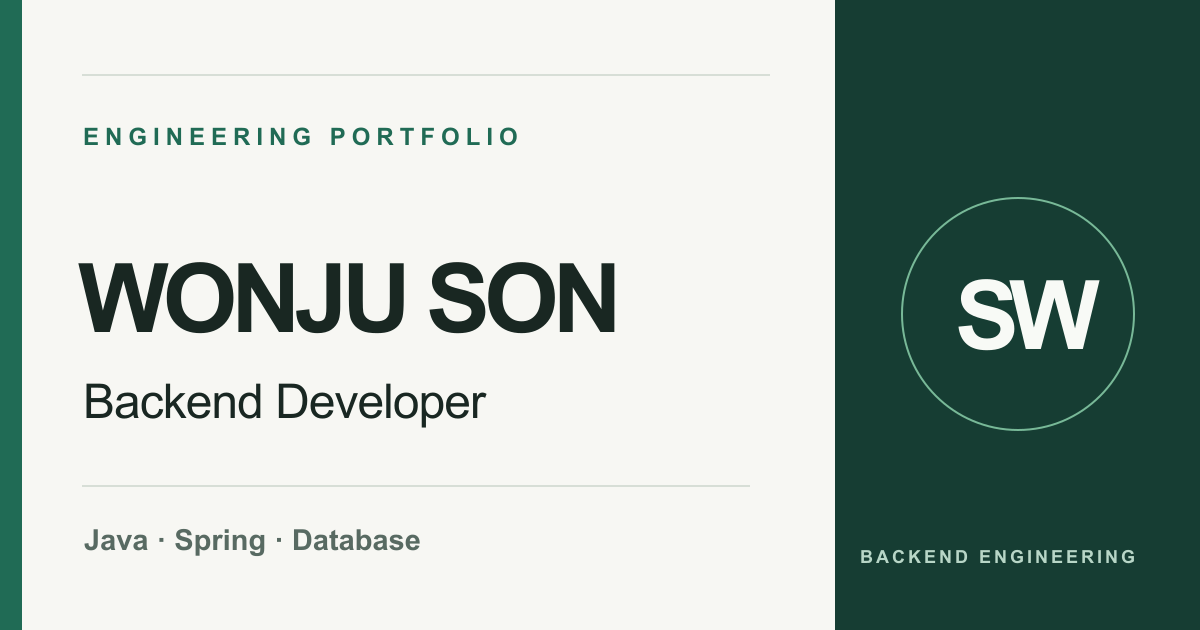
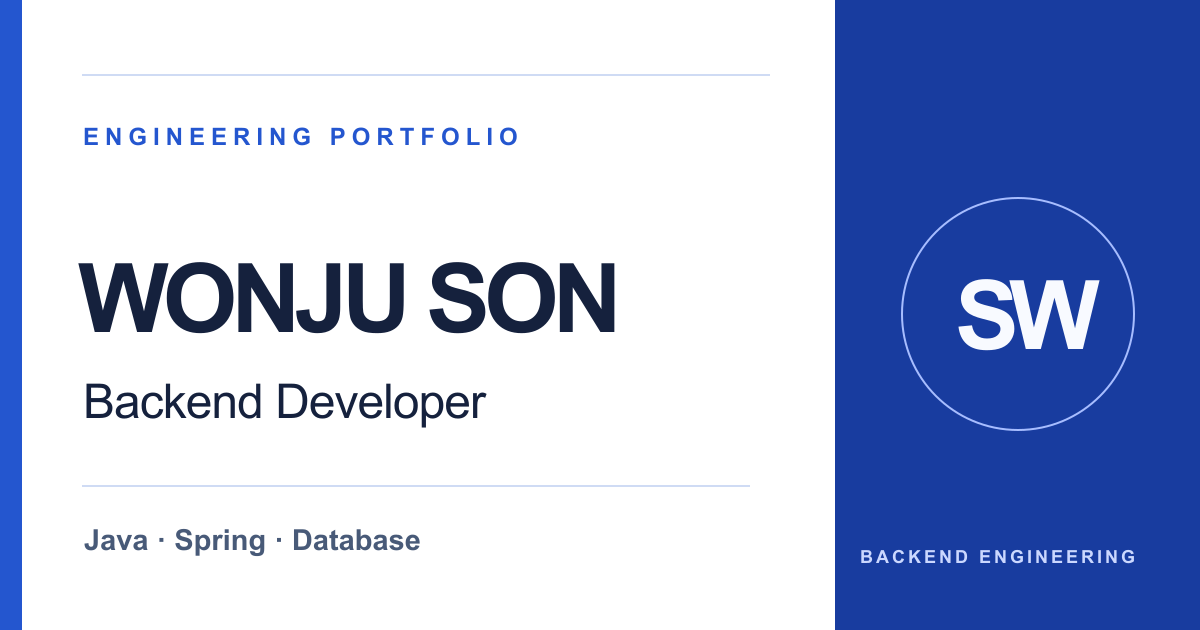
Update portfolio content and cobalt theme

diff --git a/src/styles/global.css b/src/styles/global.css
@@ -1,47 +1,47 @@
 :root {
   color-scheme: light;
-  --bg: #f7f7f3;
+  --bg: #ffffff;
   --surface: #ffffff;
-  --tint: #f0f2ee;
-  --text: #192722;
-  --muted: #586a62;
-  --subtle: #5d6c62;
-  --line: #d7ded6;
-  --accent: #206b55;
-  --accent-strong: #124b3b;
-  --dark-panel: #163d33;
-  --panel-text: #f8faf6;
+  --tint: #e8efff;
+  --text: #15213d;
+  --muted: #485a78;
+  --subtle: #5b6b87;
+  --line: #cfdbf4;
+  --accent: #2456cf;
+  --accent-strong: #1b45aa;
+  --dark-panel: #183c9f;
+  --panel-text: #f8faff;
   font-family: -apple-system, BlinkMacSystemFont, "Apple SD Gothic Neo", "Malgun Gothic", "Segoe UI", sans-serif;
 }
 
 @media (prefers-color-scheme: dark) {
   :root:not([data-theme="light"]) {
     color-scheme: dark;
-    --bg: #101a17;
-    --surface: #17231e;
-    --tint: #14201b;
-    --text: #eff3ed;
-    --muted: #b0bfb5;
-    --subtle: #8e9f94;
-    --line: #34463a;
-    --accent: #8bd7b2;
-    --accent-strong: #a1e8c4;
-    --dark-panel: #214b3c;
+    --bg: #0b1224;
+    --surface: #141e35;
+    --tint: #172644;
+    --text: #f2f5ff;
+    --muted: #b5c3e2;
+    --subtle: #a2b2d2;
+    --line: #32456b;
+    --accent: #8caaff;
+    --accent-strong: #aec3ff;
+    --dark-panel: #294cb0;
   }
 }
 
 :root[data-theme="dark"] {
   color-scheme: dark;
-  --bg: #101a17;
-  --surface: #17231e;
-  --tint: #14201b;
-  --text: #eff3ed;
-  --muted: #b0bfb5;
-  --subtle: #8e9f94;
-  --line: #34463a;
-  --accent: #8bd7b2;
-  --accent-strong: #a1e8c4;
-  --dark-panel: #214b3c;
+  --bg: #0b1224;
+  --surface: #141e35;
+  --tint: #172644;
+  --text: #f2f5ff;
+  --muted: #b5c3e2;
+  --subtle: #a2b2d2;
+  --line: #32456b;
+  --accent: #8caaff;
+  --accent-strong: #aec3ff;
+  --dark-panel: #294cb0;
 }
 
 *, *::before, *::after { box-sizing: border-box; }
@@ -91,13 +91,13 @@ button { cursor: pointer; }
 .button.resume-unavailable { border-color: var(--line); background: var(--tint); color: var(--subtle); cursor: default; }
 .hero-aside { min-height: 480px; display: flex; flex-direction: column; justify-content: space-between; padding: 29px; background: var(--dark-panel); color: var(--panel-text); }
 .hero-aside-content { display: grid; align-content: center; }
-.hero-profile-image { display: block; width: 100%; height: 220px; margin-bottom: 20px; object-fit: cover; object-position: center 35%; background: #295347; }
+.hero-profile-image { display: block; width: 100%; height: 220px; margin-bottom: 20px; object-fit: cover; object-position: center 35%; background: #3158ae; }
 .hero-aside-top { display: flex; justify-content: space-between; font-size: 10px; font-weight: 700; letter-spacing: .15em; }
 .hero-aside-top span:last-child { font-size: 24px; font-weight: 300; line-height: .7; }
-.hero-aside-label { margin: 0 0 17px; color: #b8d6c7; font-size: 10px; font-weight: 700; letter-spacing: .16em; }
+.hero-aside-label { margin: 0 0 17px; color: #cbd8ff; font-size: 10px; font-weight: 700; letter-spacing: .16em; }
 .hero-aside-title { margin: 0; font-size: clamp(26px, 2.8vw, 38px); line-height: 1.28; letter-spacing: -.06em; font-weight: 580; }
 .hero-aside-bottom { display: flex; flex-wrap: wrap; gap: 8px; padding-top: 18px; border-top: 1px solid #ffffff40; }
-.hero-aside-bottom span { padding: 5px 8px; border: 1px solid #ffffff4a; color: #e1eee7; font-size: 10px; font-weight: 600; }
+.hero-aside-bottom span { padding: 5px 8px; border: 1px solid #ffffff4a; color: #e3eaff; font-size: 10px; font-weight: 600; }
 .hero-bottom { display: flex; justify-content: space-between; gap: 20px; padding: 18px 0; border-top: 1px solid var(--line); color: var(--subtle); font-size: 10px; font-weight: 700; letter-spacing: .12em; text-transform: uppercase; }
 
 /* Shared sections */
@@ -125,6 +125,11 @@ button { cursor: pointer; }
 .timeline-date, .entry-date { color: var(--accent-strong); font-size: 11px; font-weight: 770; letter-spacing: .06em; white-space: nowrap; }
 .current-badge { padding: 2px 6px; background: var(--accent); color: var(--bg); font-size: 8px; font-weight: 800; letter-spacing: .1em; }
 .role { margin: 3px 0 0; color: var(--accent-strong); font-size: 13px; font-weight: 700; }
+.experience-systems { display: grid; gap: 29px; margin-top: 25px; }
+.experience-system { padding-top: 23px; border-top: 1px solid var(--line); }
+.experience-system h4 { margin: 0; color: var(--text); font-size: 16px; font-weight: 700; line-height: 1.5; letter-spacing: -.025em; word-break: keep-all; }
+.system-period { margin: 4px 0 0; color: var(--accent-strong); font-size: 11px; font-weight: 700; }
+.system-stack { margin: 14px 0 15px; color: var(--subtle); font-size: 12px; line-height: 1.75; word-break: keep-all; }
 .item-intro { margin: 20px 0 10px; color: var(--muted); font-size: 14px; line-height: 1.85; word-break: keep-all; }
 .text-link { color: var(--accent-strong); font-weight: 700; text-decoration: underline; text-decoration-color: var(--line); text-underline-offset: 4px; }
 .detail-list { display: grid; gap: 5px; margin: 0; padding-left: 17px; color: var(--muted); font-size: 14px; line-height: 1.7; }
@@ -135,6 +140,7 @@ button { cursor: pointer; }
 .phase-note { color: var(--subtle); font-size: 11px; text-align: right; }
 .project-grid { display: grid; grid-template-columns: repeat(3, minmax(0, 1fr)); gap: 13px; }
 .project-grid-single { grid-template-columns: minmax(0, 580px); }
+.project-grid-four { grid-template-columns: repeat(2, minmax(0, 1fr)); }
 .project-card { min-width: 0; min-height: 337px; border: 1px solid var(--line); background: var(--surface); transition: border-color .2s ease, transform .2s ease; }
 .project-card:hover, .project-card:focus-within { border-color: var(--accent); transform: translateY(-3px); }
 .project-card-link { display: flex; min-height: 337px; height: 100%; flex-direction: column; justify-content: space-between; padding: 25px 23px 20px; }
@@ -263,19 +269,19 @@ button { cursor: pointer; }
 .project-nav-empty strong { color: var(--subtle); font-weight: 500; }
 
 /* Footer */
-.site-footer { background: #102d26; color: #f2f8f2; }
+.site-footer { background: #101f50; color: #f4f7ff; }
 .not-found { display: flex; min-height: clamp(460px, 65vh, 720px); align-items: center; background: var(--tint); }
 .not-found-inner { padding-top: 65px; padding-bottom: 85px; }
 .not-found .page-eyebrow { margin-top: 0; }
 .not-found h1 { margin: 0; font-size: clamp(46px, 7vw, 82px); line-height: 1.12; letter-spacing: -.07em; }
 .not-found-inner > p:not(.page-eyebrow) { margin: 24px 0 30px; color: var(--muted); font-size: 17px; }
 .footer-main { display: flex; align-items: end; justify-content: space-between; gap: 40px; padding-top: 77px; padding-bottom: 78px; }
-.footer-eyebrow { margin: 0 0 18px; color: #a4d3ba; font-size: 10px; font-weight: 800; letter-spacing: .15em; }
+.footer-eyebrow { margin: 0 0 18px; color: #b6c9ff; font-size: 10px; font-weight: 800; letter-spacing: .15em; }
 .footer-main h2 { margin: 0; font-size: clamp(28px, 4vw, 50px); line-height: 1.35; letter-spacing: -.065em; font-weight: 650; word-break: keep-all; }
-.footer-main .accent { color: #91d8b5; }
-.footer-link { display: inline-flex; align-items: center; gap: 25px; flex: none; padding-bottom: 7px; border-bottom: 1px solid #9fcdb2; font-size: 13px; font-weight: 700; }
-.footer-link:hover { color: #a4d3ba; }
-.footer-bottom { display: flex; justify-content: space-between; gap: 16px; padding-top: 19px; padding-bottom: 24px; border-top: 1px solid #ffffff34; color: #a8beaf; font-size: 11px; }
+.footer-main .accent { color: #9db7ff; }
+.footer-link { display: inline-flex; align-items: center; gap: 25px; flex: none; padding-bottom: 7px; border-bottom: 1px solid #a7bdff; font-size: 13px; font-weight: 700; }
+.footer-link:hover { color: #cbd8ff; }
+.footer-bottom { display: flex; justify-content: space-between; gap: 16px; padding-top: 19px; padding-bottom: 24px; border-top: 1px solid #ffffff34; color: #b7c5e8; font-size: 11px; }
 
 @media (max-width: 1000px) {
   .container { width: min(100% - 48px, 1180px); }

diff --git a/src/content/projects/mysql-query-performance-optimization.md b/src/content/projects/mysql-query-performance-optimization.md
@@ -9,7 +9,7 @@ skills:
   - Query Optimization
   - Index
 featured: true
-order: 2
+order: 1
 draft: false
 ---
 
@@ -19,10 +19,10 @@ draft: false
 
 | Case | Data Scale | Before | After |
 | --- | --- | --- | --- |
-| 복합 Index 활용 개선 | 약 3,000만 건 | 최대 약 50초 | 약 3초 |
-| 대용량 JOIN / GROUP BY 제거 | 약 1,500만 + 2,000만 건 | 10초 이상 | 평균 약 3초 |
-| JOIN Column Type 불일치 대응 | 약 200만 건 | 약 5초 | 1초 미만 |
-| Anti Join / 정렬 최적화 | 약 450만 + 24만 건 | 약 6초 | 약 1초 |
+| 복합 Index 활용 개선 | 약 3,000만 건 | 최대 약 50초 | 약 2초 |
+| 대용량 JOIN / GROUP BY 제거 | 약 1,500만 + 2,000만 건 | 10초 Timeout | 평균 약 1초 |
+| JOIN Column Type 불일치 대응 | 약 200만 + 900만 건 | 약 5초 | 1초 미만 |
+| Anti Join / 정렬 최적화 | 약 450만 + 24만 건 | 특정 조건에서 10초 이상 Timeout | 약 1초 |
 
 각 사례의 실행 시간은 해당 Query에서 확인한 값. SQL과 Table·Column 이름은 공개를 위해 일반화.
 
@@ -57,10 +57,10 @@ draft: false
 
 ### Problem
 
-- 모니터링에서 Batch 수행시간 증가 확인; Query 최대 **약 50초**
+- 모니터링에서 Batch 수행시간 증가 확인, Query 실행 시간 최대 **약 50초**
 - 기존 복합 Index: `INDEX (a, b, c)`
 - 검색 조건에서 중간 Column `b` 누락
-- 당시 실행계획에서 **Index Skip Scan** 사용; 불필요한 Index 탐색 범위 발생
+- 당시 실행계획에서 **Index Skip Scan** 사용으로 불필요한 Index 탐색 발생
 
 ```sql
 WHERE a = ?
@@ -70,12 +70,12 @@ WHERE a = ?
 ### Analysis
 
 - 기존 Index `(a, b, c)`의 Column 순서와 Query 조건 비교
-- 업무 조건상 `b`를 추가해도 결과의 의미가 달라지지 않음 확인
+- `b`의 Cardinality가 2로, 두 값을 `IN (?, ?)` 조건에 포함해도 결과의 의미가 달라지지 않음 확인
 - 신규 Index보다 기존 Index의 연속된 선두 Column 활용 우선 검토
 
 ### Solution
 
-- 검색 조건에 `b` 추가
+- 검색 조건에 `b IN (?, ?)` 추가해 복합 Index의 연속된 선두 Column 활용
 - 실행계획의 Index Access 방식 **Index Skip Scan → Index Range Scan**으로 변경
 
 ```sql
@@ -85,14 +85,14 @@ WHERE a = ?
 
 -- After
 WHERE a = ?
-  AND b = ?
+  AND b IN (?, ?)
   AND c = ?;
 ```
 
 ### Result
 
 - 신규 Index 없이 기존 복합 Index 활용 개선
-- 실행 시간 **최대 약 50초 → 약 3초**
+- 실행 시간 **최대 약 50초 → 약 2초**
 
 ## Case 2. 대용량 JOIN / GROUP BY 제거
 
@@ -103,44 +103,44 @@ WHERE a = ?
 
 ### Problem
 
-- 히스토리 조회 시 웹 요청 Timeout; 조건에 따라 **10초 이상**
+- 히스토리 조회 시 **10초로 설정된 웹 요청 Timeout** 발생
 - 최종 전송 성공 여부 판단을 위해 두 대용량 Table JOIN 후 `GROUP BY` 수행
 - 재시도 데이터 중 한 건이라도 성공하면 최종 결과를 성공으로 판단
 - 필수 문자열 검색조건에 적절한 Index 부재
 
 ### Analysis
 
-- 조회할 때마다 동일한 성공 여부 집계 반복 확인
-- 최종 성공 여부를 데이터 저장 시점에 결정할 수 있음 확인
-- SQL 미세 조정보다 Read 시점의 JOIN / 집계 자체를 제거하는 방향 선택
+- 조회에 필요한 값은 재시도 히스토리의 성공 여부였으나, 이 한 값을 위해 대용량 재시도 히스토리를 JOIN하고 `GROUP BY` 집계 반복
+- 단일 상태 값을 얻기 위한 대용량 JOIN / 집계 비용이 비효율적이라고 판단
+- SQL 미세 조정보다 상태를 알림 히스토리에 저장해 Read 시점의 JOIN / 집계 자체를 제거하는 방향 선택
 
 ### Solution
 
-- 알림 히스토리에 최종 성공 여부 `success` Column 추가
-- 히스토리 INSERT 시점에 성공 여부 함께 저장
+- 알림 히스토리에 `status` Column 추가, `SUCCESS`·`FAIL`·`RETRY` 상태 저장
 - 조회 Query에서 재시도 히스토리 JOIN 및 `GROUP BY` 제거
-- 필수·빈번한 검색조건과 Cardinality를 고려해 Index 재구성; Table Access 감소
+- 필수·빈번한 검색조건과 Cardinality를 고려해 Index 재구성으로 Table Access 감소
 
 ```text
 Before: READ → History + Retry History → JOIN → GROUP BY → 성공 여부 계산
-After:  WRITE → 성공 여부 결정 및 History에 저장
-        READ  → success 직접 조회
+After:  WRITE → History의 status에 상태 저장
+        READ  → status 직접 조회
 ```
 
 ### Result
 
 - 반복 계산을 Write 시점으로 이동하고 Read 시점의 대용량 JOIN / 집계 제거
-- 실행 시간 **10초 이상 → 평균 약 3초**
+- 실행 시간 **10초 Timeout → 평균 약 1초**
 
 ## Case 3. JOIN Column Data Type 불일치 대응
 
 ### Data Scale
 
-- 권한 정보 약 **200만 건**
+- SQL Client 권한 데이터 약 **200만 건**
+- SQL Client 권한 세부 데이터(SELECT, INSERT, UPDATE, DELETE, DDL, EXECUTE) 약 **900만 건**
 
 ### Problem
 
-- 사용자로부터 권한 조회 성능 저하 제보; 기존 Query **약 5초**
+- 사용자로부터 권한 조회 성능 저하 제보, 기존 Query 실행 시간 **약 5초**
 - JOIN Key의 Data Type 불일치: `VARCHAR ↔ BIGINT`
 - JOIN 과정에서 Index를 원하는 방식으로 활용하기 어려운 구조
 
@@ -170,10 +170,9 @@ After:  WRITE → 성공 여부 결정 및 History에 저장
 
 ### Problem
 
-- 이벤트 검색 중 웹 요청 Timeout; 기존 Query **약 6초**
+- 검색 결과가 없거나 10건 이하인 특정 조건에서 Query 실행 시간 **10초 이상**, 웹 요청 Timeout 발생
 - Event와 Server를 Outer Join한 뒤 Driven Table에 `IS NULL` 적용
 - 당시 실행계획에서 Hash Join 수행
-- `created_at` 선두 Index 부재로 최신순 결과의 별도 정렬 비용 발생
 
 ```sql
 SELECT ...
@@ -187,14 +186,16 @@ ORDER BY e.created_at DESC;
 
 - 실제 요구사항: Server에 대응 데이터가 없는 Event를 최신순으로 조회
 - `LEFT JOIN ... IS NULL`의 Anti Join 의미 확인
+- Event와 Server JOIN 시 Event당 약 10건의 Server 데이터가 매칭되어, 존재 여부만 필요한 조회에 불필요한 행 결합 발생
+- `ORDER BY created_at`에 활용할 Index가 없어 결과가 없거나 10건 이하로 페이징해도 전체 후보의 정렬 작업이 발생하고 조기 종료가 어려움
 - `event_id`가 생성 순서를 보장하고, 이를 선두 Column으로 하는 Index가 이미 있음 확인
 - 이 Query에서는 `event_id DESC`로 필요한 최신순 표현 가능
 
 ### Solution
 
-- Outer Join + `IS NULL`을 `NOT EXISTS`로 변경
-- 정렬 기준을 `created_at DESC`에서 `event_id DESC`로 변경
-- 기존 `event_id` 선두 Index를 활용해 별도 정렬 비용 감소
+- Outer Join + `IS NULL`을 `NOT EXISTS`로 변경해 Server 데이터의 존재 여부만 확인하고 중복 행 결합 연산 감소
+- 정렬 기준을 `created_at DESC`에서 Index가 있는 `event_id DESC`로 변경
+- 기존 `event_id` 선두 Index를 활용해 별도 정렬 작업 제거
 
 ```sql
 SELECT ...
@@ -210,7 +211,7 @@ ORDER BY e.event_id DESC;
 ### Result
 
 - 신규 Index 없이 Anti Join 구조와 Index 기반 정렬 활용
-- 실행 시간 **약 6초 → 약 1초**
+- 실행 시간 **특정 조건에서 10초 이상 Timeout → 약 1초**
 
 > `NOT EXISTS`가 `LEFT JOIN`보다 항상 빠르다는 의미는 아님. 당시 데이터 구조, 실행계획 및 Index 구성을 기준으로 선택.
 

diff --git a/src/content/projects/antlr-ddl-parser.md b/src/content/projects/antlr-ddl-parser.md
@@ -1,0 +1,66 @@
+---
+title: "ANTLR 기반 DDL Parser 재설계 및 레거시 Parser 교체"
+company: "N Tech Service"
+period: "2026.06 ~ 2026.07"
+category: "Parser Architecture"
+summary: "1만 줄 이상의 단일 파일과 높은 유지보수 비용을 가진 기존 DDL Parser를 ANTLR 기반으로 재설계하고, DBMS별 Parser 구조 분리와 검증 환경 구축을 통해 평균 유지보수 작업 시간을 약 1일에서 약 2시간으로 단축"
+skills:
+  - Java
+  - ANTLR4
+  - Spring Boot
+featured: true
+order: 4
+draft: false
+---
+
+## 문제와 원인
+
+- 기존 DDL Parser는 JJT 문법 기반으로 구현되어 문법과 코드 구조를 파악하는 데 높은 학습 비용 발생
+- 하나의 파일에 1만 줄 이상의 코드가 집중되고 기능·DBMS별 책임이 혼재되어 버그 수정과 요구사항 변경의 영향 범위 파악이 어려움
+- 실제 시스템에서 사용하지 않는 DML·TCL Query Type까지 포함되어 DDL 처리에 불필요한 복잡도 존재
+- MySQL, MSSQL, PostgreSQL, Oracle 및 사내 전용 DBMS를 지원해야 했으나, 외부 오픈소스 Parser에서는 자체 DBMS 문법 확장이 어려움
+- 변경이 다른 DBMS와 DDL 처리 로직에 영향을 줄 가능성이 높아 유지보수 비용 증가
+
+## Parser 기술 선정
+
+기존 Parser의 구조적 문제 해결을 위해 범용 SQL Parser 교체와 Parser Generator 기반 DDL 문법 직접 구현 방식 비교
+
+| 후보 | 장점 | 이번 시스템에서의 판단 |
+| --- | --- | --- |
+| [JSqlParser](https://jsqlparser.github.io/JSqlParser/) | Java 객체 구조로 파싱 결과 제공, 여러 DBMS 문법 지원 | 사내 전용 DBMS 문법을 추가하려면 범용 Grammar와 관련 구조를 함께 관리해야 해 기존 유지보수 문제를 충분히 줄이기 어려움 |
+| [Apache Calcite](https://calcite.apache.org/) | SQL Parser 외에 Validation과 쿼리 최적화 기능 제공 | Parser를 별도로 사용할 수 있지만 DDL 문법만 직접 통제하려는 목표에 비해 기능 범위가 넓음 |
+| [jOOQ Parser](https://www.jooq.org/doc/latest/manual/sql-building/sql-parser/sql-parser-api/) | 여러 SQL Dialect 파싱 및 SQL 변환 기능 제공 | 자체 DDL Grammar를 중심으로 Parser를 설계하려는 요구와 방향이 다름 |
+| [JavaCC / JJTree](https://javacc.github.io/javacc/documentation/jjtree.html) | Grammar를 정의해 Java Parser와 Parse Tree 생성 가능 | 기존 Parser에서 경험한 JJT 문법과 Tree 처리 구조의 유지보수 비용을 근본적으로 줄이기 어려움 |
+| [ANTLR](https://github.com/antlr/antlr4) | Grammar 직접 정의, Lexer/Parser 생성, Parse Tree의 Listener/Visitor 제공 | Grammar를 직접 관리해야 하지만 필요한 DDL과 DBMS별 문법만 통제할 수 있음 |
+
+### ANTLR을 선택한 이유
+
+- 범용 SQL 전체가 아닌 DDL 처리에 집중하고 DML·TCL 등 미사용 문법은 제외할 수 있음
+- MySQL·Oracle·PostgreSQL·MSSQL뿐 아니라 사내 전용 DBMS의 문법을 직접 정의·확장할 수 있음
+- `.g4` Grammar로 Lexer/Parser를 생성하고, Listener/Visitor를 통해 Parse Tree 이후 처리 로직을 Java 코드로 분리할 수 있음
+- DBMS별 Parser 책임을 분리해 특정 문법 변경이 다른 DBMS에 미치는 영향을 제한할 수 있음
+
+**기술 선정 기준: SQL 문법 지원 범위보다 실제 사용하는 DDL 문법의 직접 통제·확장·유지보수 가능성**
+
+## DDL Parser 구조 재설계
+
+- ANTLR 기반 DDL Parser를 신규 개발하고 `.g4` Grammar로 Lexer와 Parser 생성
+- DML·TCL 등 미사용 Query Type을 제거하고 시스템에서 필요한 DDL 처리에 집중
+- 파싱 이후 처리 로직을 Java로 구성하고, DBMS별 Parser 로직과 공통 처리 영역 분리
+- DBMS별 차이만 개별 구현하도록 구조화해 신규 DBMS 및 DDL 문법 확장에 대응
+- 반복적인 DBMS별 Parser 개발 작업을 표준화하기 위해 Codex Skill 작성
+
+## 기존·신규 Parser 비교 검증 환경 구축
+
+- Parser 교체 전 기존 기능과의 호환성을 확인하기 위한 별도 웹 프로젝트 개발
+- 동일한 DDL Script를 기존 jsql-parser 기반 Parser와 신규 ANTLR Parser에 입력해 파싱 결과 비교
+- 결과 차이를 검토하며 기존 Parser에서 처리하지 못했던 DDL Query와 Parser Bug 식별
+- 신규 Parser 적용 전 동작 차이를 확인할 수 있게 하여 교체에 따른 회귀 위험 최소화
+
+## 결과
+
+- **평균 유지보수 작업 시간: 약 1일 → 약 2시간**
+- **신규 Parser 구조 적용 이후 코드 수정에 따른 사이드 이펙트: 0건**
+- 기존 Parser에서 정상 처리하지 못했던 DDL Query 및 Parser Bug 개선
+- DBMS별 Parser 책임 분리와 공통 로직 추상화로 변경 영향 범위 축소
+- 불필요한 Query Type 제거와 역할 분리로 코드 가독성 및 유지보수성 개선

diff --git a/src/content/projects/caffeine-to-redis.md b/src/content/projects/caffeine-to-redis.md
@@ -11,7 +11,7 @@ skills:
   - Redis
   - Lettuce
 featured: true
-order: 1
+order: 2
 draft: false
 ---
 
